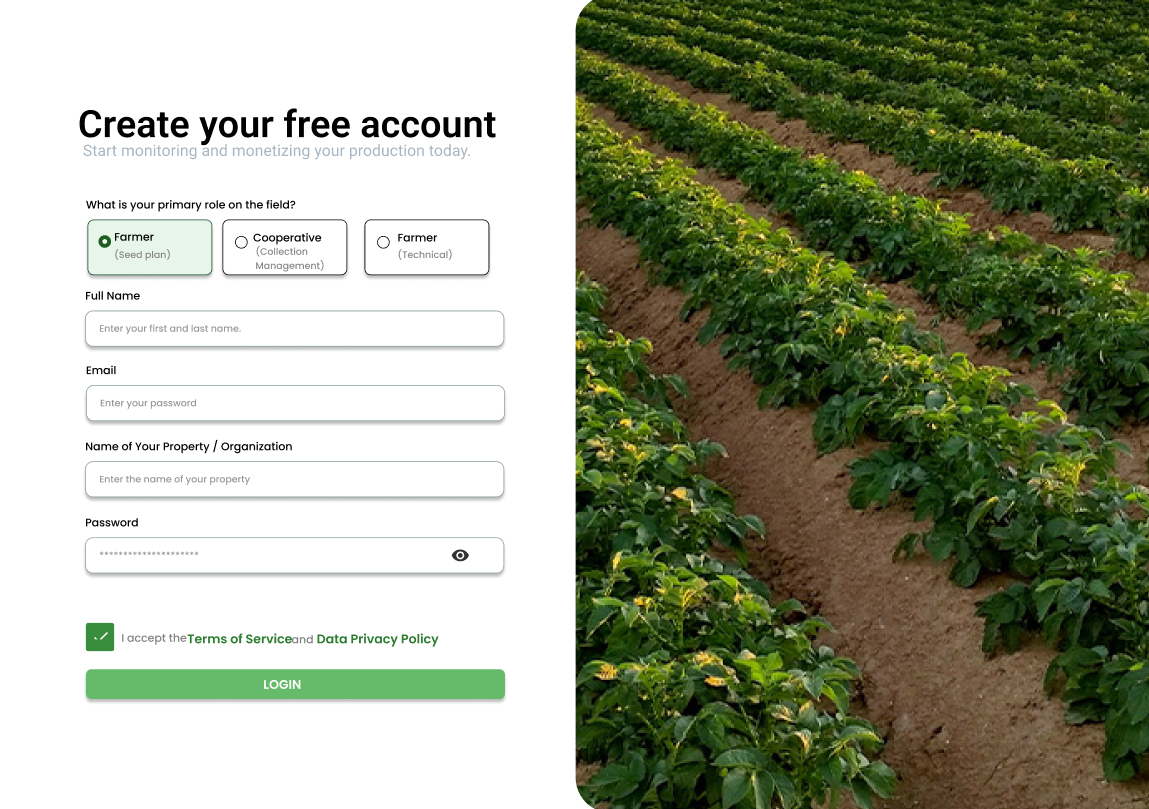
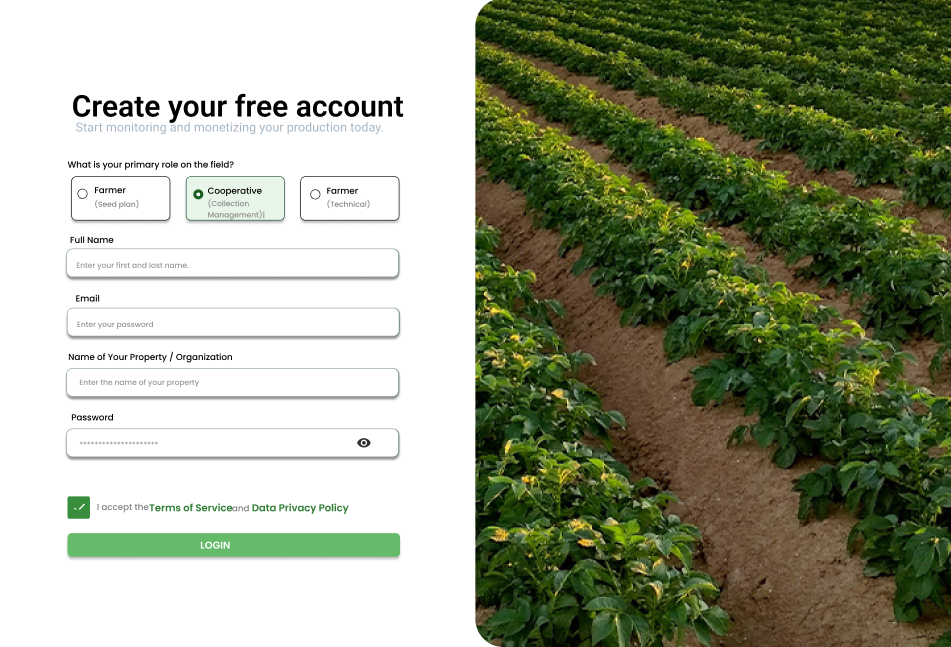
docs(chapter-4): add new mockups for segment 2

diff --git a/report/40-chapter-4-design.md b/report/40-chapter-4-design.md
@@ -963,7 +963,7 @@ En esta sección se presentan los mockups de la aplicación web de **SumaqAgro**
 ### LOGIN / REGISTER
 
 <p align="center">
-  <img src="assets/img/chapter-4/applications-design/mockups/desktop/mockup-app-login.png"  width="600px" height="auto"/>
+  <img src="assets/img/chapter-4/applications-design/mockups/desktop/mockup-app-login-segment-1.png"  width="600px" height="auto"/>
   <img src="assets/img/chapter-4/applications-design/mockups/desktop/mockup-app-register.png"  width="600px" height="auto"/>
 </p>
 
@@ -1019,6 +1019,55 @@ En esta sección se presentan los mockups de la aplicación web de **SumaqAgro**
 <p align="center">
   <img src="assets/img/chapter-4/applications-design/mockups/desktop/mockup-app-offline-mode.png"  width="600px" height="auto"/>
 </p>
+
+
+### Semento 2 
+
+### LOGIN / REGISTER
+
+![mockup-app-login.png](assets/img/chapter-4/applications-design/mockups/desktop/mockup-app-login.png)
+![mockup-app-register.png](assets/img/chapter-4/applications-design/mockups/desktop/mockup-app-register.png)
+
+### Dashboard
+
+![mockup-app-dashboard.png](assets/img/chapter-4/applications-design/mockups/desktop/mockup-app-dashboard.png)
+![mockup-app-dashboard-conrol-panel.png](assets/img/chapter-4/applications-design/mockups/desktop/mockup-app-dashboard-conrol-panel.png)
+![mockup-app-dashboard-rapid.png](assets/img/chapter-4/applications-design/mockups/desktop/mockup-app-dashboard-rapid.png)
+
+### member directory
+![mockup-app-member-directory.png](assets/img/chapter-4/applications-design/mockups/desktop/mockup-app-member-directory.png)
+![mockup-app-member-directory-register-plots.png](assets/img/chapter-4/applications-design/mockups/desktop/mockup-app-member-directory-register-plots.png)
+![mockup-app-member-directory-register-new.png](assets/img/chapter-4/applications-design/mockups/desktop/mockup-app-member-directory-register-new.png)
+![mockup-app-register-satellite-polygon.png](assets/img/chapter-4/applications-design/mockups/desktop/mockup-app-register-satellite-polygon.png)
+![mockup-app-register-satellite-polygon-mapping.png](assets/img/chapter-4/applications-design/mockups/desktop/mockup-app-register-satellite-polygon-mapping.png)
+![mockup-app-register-edite-memeber.png](assets/img/chapter-4/applications-design/mockups/desktop/mockup-app-register-edite-memeber.png)
+
+
+### Plots Health
+![mockup-app-plot-health.png](assets/img/chapter-4/applications-design/mockups/desktop/mockup-app-plot-health.png)
+![mockup-app-plot-health-satellite-map-zoommed.png](assets/img/chapter-4/applications-design/mockups/desktop/mockup-app-plot-health-satellite-map-zoommed.png)
+![mockup-app-plot-health-rural-sms-agro.png](assets/img/chapter-4/applications-design/mockups/desktop/mockup-app-plot-health-rural-sms-agro.png)
+
+### Costs 
+![mockup-app-costs.png](assets/img/chapter-4/applications-design/mockups/desktop/mockup-app-costs.png)
+![mockup-app-costs-disbursement-audit.png](assets/img/chapter-4/applications-design/mockups/desktop/mockup-app-costs-disbursement-audit.png)
+![mockup-app-costs-export-season-financial-satatement.png](assets/img/chapter-4/applications-design/mockups/desktop/mockup-app-costs-export-season-financial-satatement.png)
+
+### certificates
+![mockup-app-certificates.png](assets/img/chapter-4/applications-design/mockups/desktop/mockup-app-certificates.png)
+![mockup-app-certificates-technical-quality.png](assets/img/chapter-4/applications-design/mockups/desktop/mockup-app-certificates-technical-quality.png)
+![mockup-app-certificates-technical-quality-assessment.png](assets/img/chapter-4/applications-design/mockups/desktop/mockup-app-certificates-technical-quality-assessment.png)
+
+### Alerts
+![mockup-app-alerts.png](assets/img/chapter-4/applications-design/mockups/desktop/mockup-app-alerts.png)
+![mockup-app-alerts-regional-agro.png](assets/img/chapter-4/applications-design/mockups/desktop/mockup-app-alerts-regional-agro.png)
+![mockup-app-alerts-critical-incident-detail.png](assets/img/chapter-4/applications-design/mockups/desktop/mockup-app-alerts-critical-incident-detail.png)
+
+### Settings
+![mockup-app-settings.png](assets/img/chapter-4/applications-design/mockups/desktop/mockup-app-settings.png)
+![mockup-app-setting-institutional-config.png](assets/img/chapter-4/applications-design/mockups/desktop/mockup-app-setting-institutional-config.png)
+![mockup-app-setting-sending-of-credential.png](assets/img/chapter-4/applications-design/mockups/desktop/mockup-app-setting-sending-of-credential.png)
+![mockup-app-setting-corparte.png](assets/img/chapter-4/applications-design/mockups/desktop/mockup-app-setting-corparte.png)
 
 ### Mobile Web Browser
 
